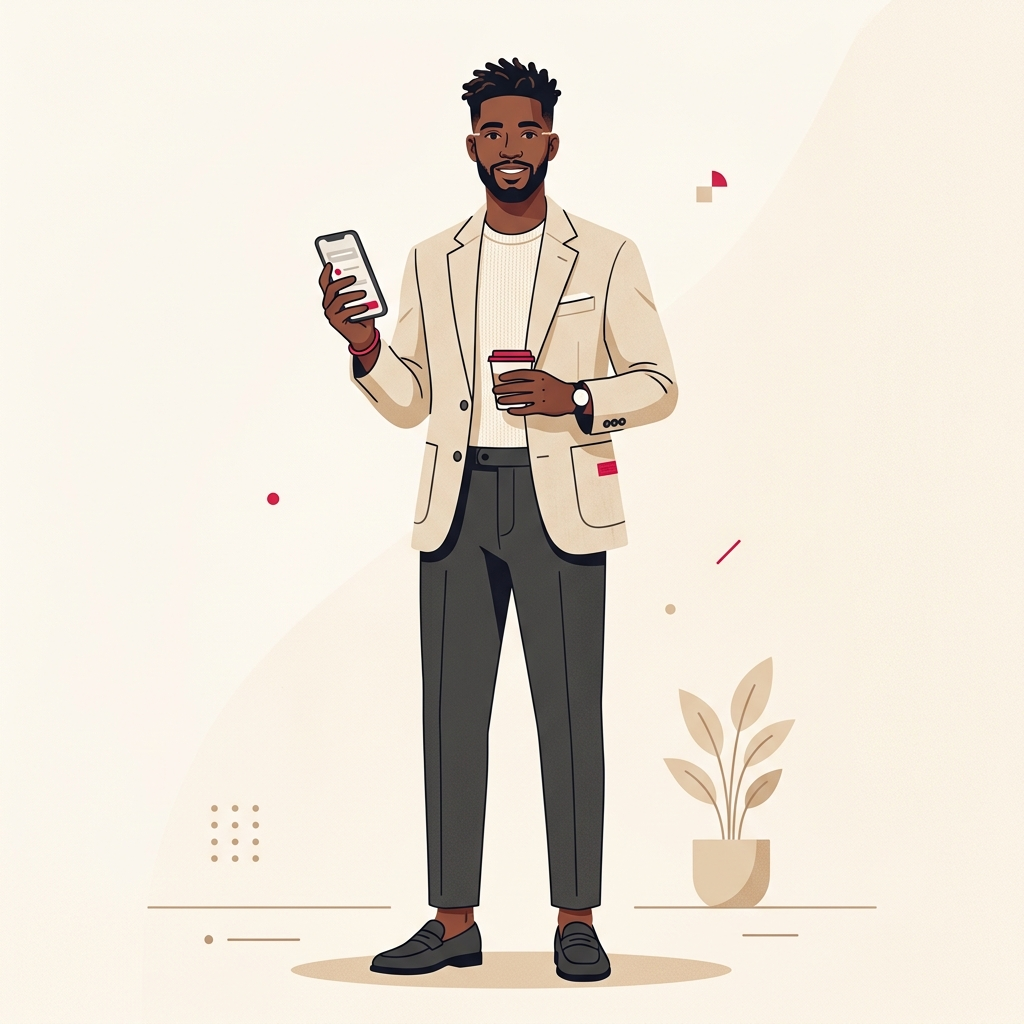
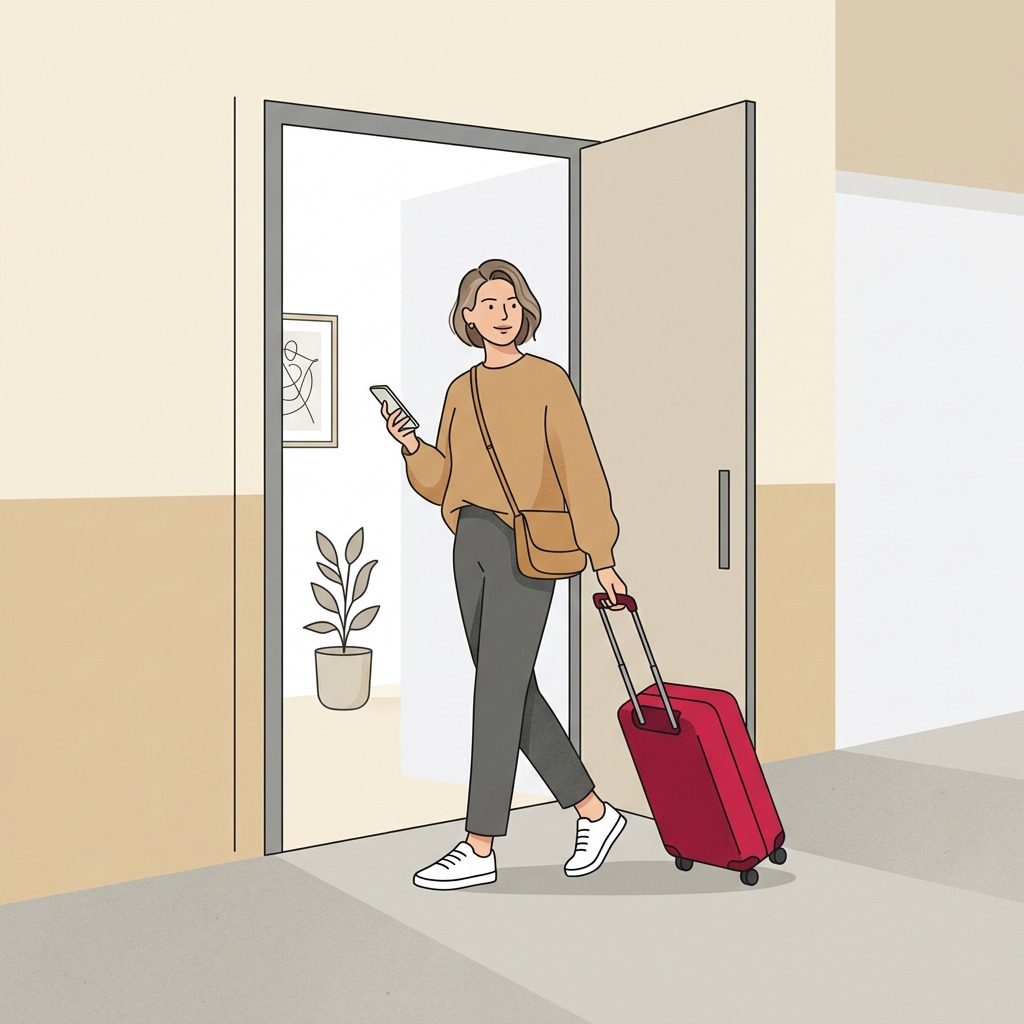
style(login): update vector art to person entering a modern room

diff --git a/src/views/LoginPage.tsx b/src/views/LoginPage.tsx
@@ -318,13 +318,13 @@ export default function LoginPage() {
         <div className="absolute top-10 right-10 w-96 h-96 bg-[#E1224D]/5 rounded-full blur-3xl pointer-events-none" />
         <div className="absolute bottom-10 left-10 w-96 h-96 bg-amber-100/30 rounded-full blur-3xl pointer-events-none" />
 
-        {/* Minimalist Lifestyle Vector Art */}
+        {/* Minimalist Lifestyle Vector Art: Person Entering Room */}
         <div className="relative z-10 flex flex-col items-center">
-          <div className="relative w-[340px] h-[340px] xl:w-[440px] xl:h-[440px] max-w-full">
+          <div className="relative w-[360px] h-[360px] xl:w-[480px] xl:h-[480px] max-w-full">
             <img
               src="/auth-vector-art.jpg"
-              alt="Modern lifestyle vector illustration"
-              className="w-full h-full object-contain rounded-3xl"
+              alt="Person entering modern room illustration"
+              className="w-full h-full object-contain rounded-3xl shadow-sm"
             />
           </div>
         </div>
